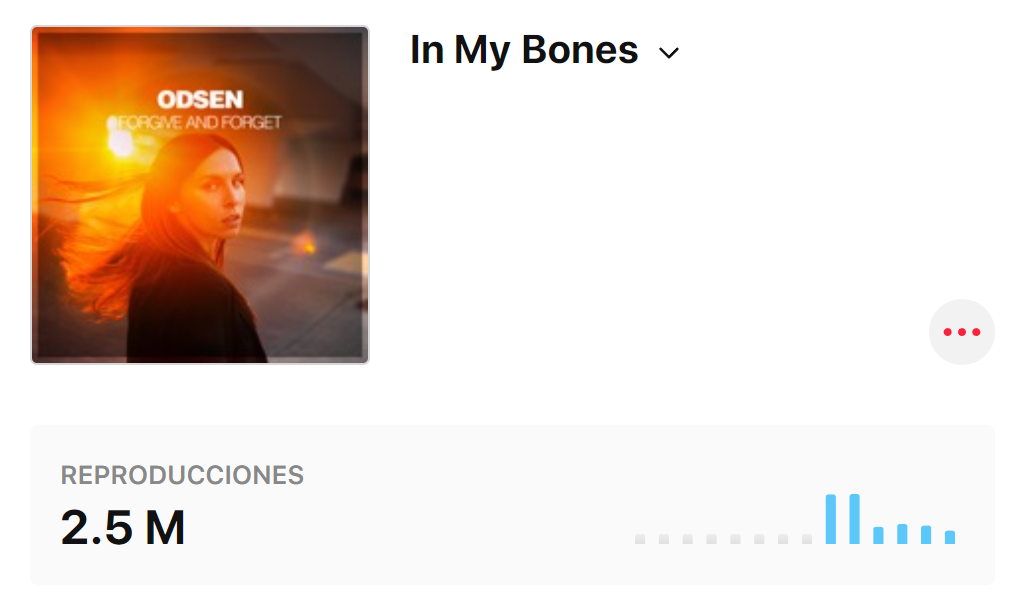
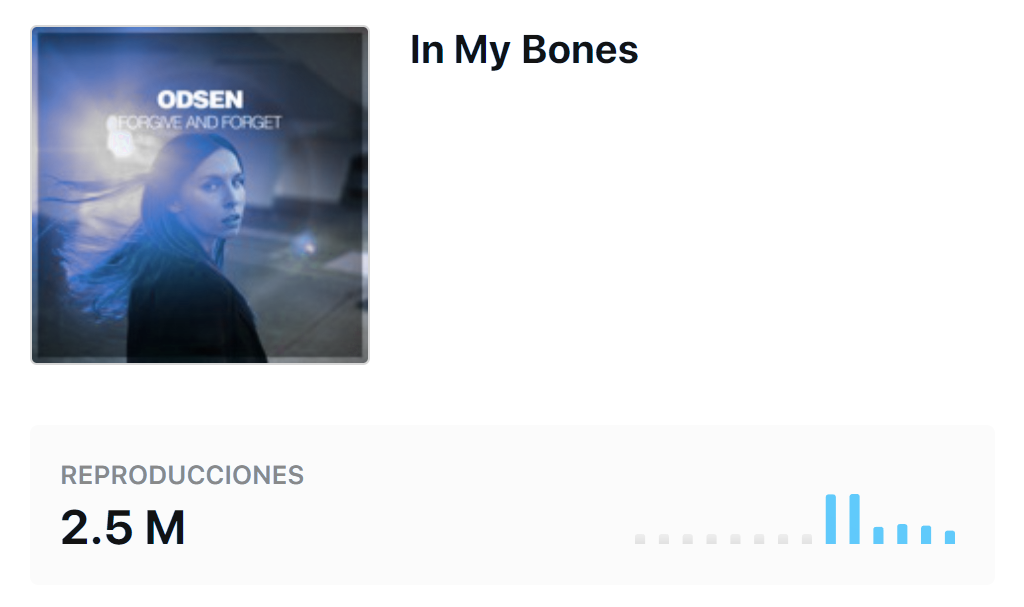
fixed text and styles

diff --git a/src/app/components/AboutMePage/index.tsx b/src/app/components/AboutMePage/index.tsx
@@ -69,6 +69,7 @@ type StaticExperienceCardProps = {
   company: string;
   time: string;
   description: string;
+  education?: boolean;
 };
 
 // ExperienceCard Component (for static content, adjust as needed or reuse original component)
@@ -78,8 +79,11 @@ const StaticExperienceCard: React.FC<StaticExperienceCardProps> = ({
   company,
   time,
   description,
+  education = false,
 }) => (
-  <article className={styles.cardContainerNormal}>
+  <article
+    className={`${styles.cardContainerNormal} ${education && styles.education}`}
+  >
     <h3 className={styles.experienceTitle}>
       {title}{" "}
       <Image
@@ -107,7 +111,7 @@ type TechnologyCardProps = {
 // TechnologyCard Component
 const TechnologyCard: React.FC<TechnologyCardProps> = ({ src, alt, text }) => (
   <article className={styles.singleTechnology}>
-    <Image src={src} height={50} width={50} alt={alt} />
+    <Image src={src} height={40} width={40} alt={alt} />
     <p>{text}</p>
   </article>
 );
@@ -215,21 +219,22 @@ const AboutMePage = () => {
               title="Delivery driver"
               company="Amazon"
               time="May 2022 - Oct 2023"
-              description="This challenging job helped me save enough to finance my master's in web programming."
+              description="With a year of experience under my belt, I became one of the company's fastest and most efficient delivery drivers. Handling the delivery of around 200 packages daily, this challenging role was not only demanding but also financially rewarding."
             />
             <StaticExperienceCard
               icon={printerIcon.src}
               title="Administrative"
               company="Roler"
               time="Oct 2019 - Sep 2020"
-              description="In this role, my responsibilities included managing incoming trucks, preparing delivery notes, and ensuring all documentation was accurate."
+              description="Managing incoming trucks, preparing accurate delivery notes, and maintaing
+              documentation to ensure efficiency and compliance where the primary tasks involved in this job experience"
             />
             <StaticExperienceCard
               icon={hamIcon.src}
               title="Food Handler"
               company="Ibericus"
               time="Sep 2018 - Oct 2019"
-              description="My first job involved the primary task of slicing ham and packaging it for sale."
+              description="Preparing, slicing and packaging ham its for sale were the main tasks on my first job."
             />{" "}
           </div>
         </div>
@@ -246,26 +251,30 @@ const AboutMePage = () => {
               icon={codeIconWhite.src}
               title=" Master in Full Stack Development"
               company="Nuclio Digital School"
-              time="May 2022 - Oct 2023"
-              description="This is the most enjoyable educational center I have ever
-              attended. Thanks to my esteemed professors, I now possess
-              extensive knowledge about the development world."
+              time="Oct 2023 - Mar 2023"
+              description=" graduated with a remarkable score of 9.94/10. My To Do App project was acclaimed as the 
+              best in the school's history, while my final web page Gloton was celebrated as the most 
+              aesthetically pleasing app ever created at the institution."
+              education={true}
             />
             <StaticExperienceCard
               icon={hamIcon.src}
               title="Degree in Food Science"
               company="UAB"
               time="Sep 2016 - Jun 2020"
-              description="At university is where I learned math, physics, critical
-              thinking, how to speak, and how to articulate my ideas
-              properly."
+              description="While my university studies weren't directly related to software development, they were 
+              foundational in mastering math and physics, enhancing my critical thinking skills, and refining 
+              my ability to speak and articulate ideas effectively"
+              education={true}
             />
             <StaticExperienceCard
               icon={chemistryIcon.src}
               title="Scientific Bachelor's Degree"
-              company="UAB"
-              time="INS Viladecavalls"
-              description="All my passion for science stems from this experience."
+              company="INS Viladecavalls"
+              time="Sep 2014 - Jun 2016"
+              description="Graduated with 10/10 in physics and 9/10 in math. All my passion for science and technology 
+              stems from this experience"
+              education={true}
             />{" "}
           </div>
         </div>

diff --git a/src/app/components/AboutMePage/styles.module.css b/src/app/components/AboutMePage/styles.module.css
@@ -90,7 +90,7 @@ header:hover > .joelBackgroundImg {
   display: flex;
   flex-wrap: wrap;
   gap: 10px;
-  max-width: 640px;
+  max-width: 800px;
   align-items: center;
   justify-content: center;
 }
@@ -102,13 +102,17 @@ header:hover > .joelBackgroundImg {
   align-items: center;
   justify-content: center;
   border-radius: 10px;
-  gap: 10px;
-  padding: 10px;
+  gap: 15px;
+  padding: 15px;
   min-width: 100px;
+  max-width: 100px;
 }
 
 .singleTechnology > p {
   font-weight: 400;
+  background-color: rgba(255, 255, 255, 0.151);
+  padding: 5px 10px;
+  border-radius: 50px;
 }
 
 .textContainer {
@@ -434,12 +438,16 @@ header:hover > .joelBackgroundImg {
 }
 
 .cardContainerNormal {
-  background-color: #4d4d379b;
+  background-color: #49515b;
   color: white;
   height: fit-content;
   border-radius: 10px;
   width: 33%;
-  min-height: 250px;
+  min-height: 300px;
+}
+
+.cardContainerNormal.education {
+  background-color: #104688af;
 }
 
 .experienceTitle {
@@ -503,7 +511,7 @@ header:hover > .joelBackgroundImg {
   width: 100%;
 }
 .point {
-  height: 10px;
+  height: 7px;
   min-width: 7px;
   background-color: white;
   border-radius: 30px;
@@ -539,6 +547,6 @@ header:hover > .joelBackgroundImg {
 .appleMusicImage {
   border-radius: 10px;
 
-  filter: grayscale(1) contrast(0.8) sepia(1) hue-rotate(174deg) brightness(1.1);
+  /* filter: grayscale(1) contrast(0.8) sepia(1) hue-rotate(174deg) brightness(1); */
   transition: filter 0.3s;
 }
